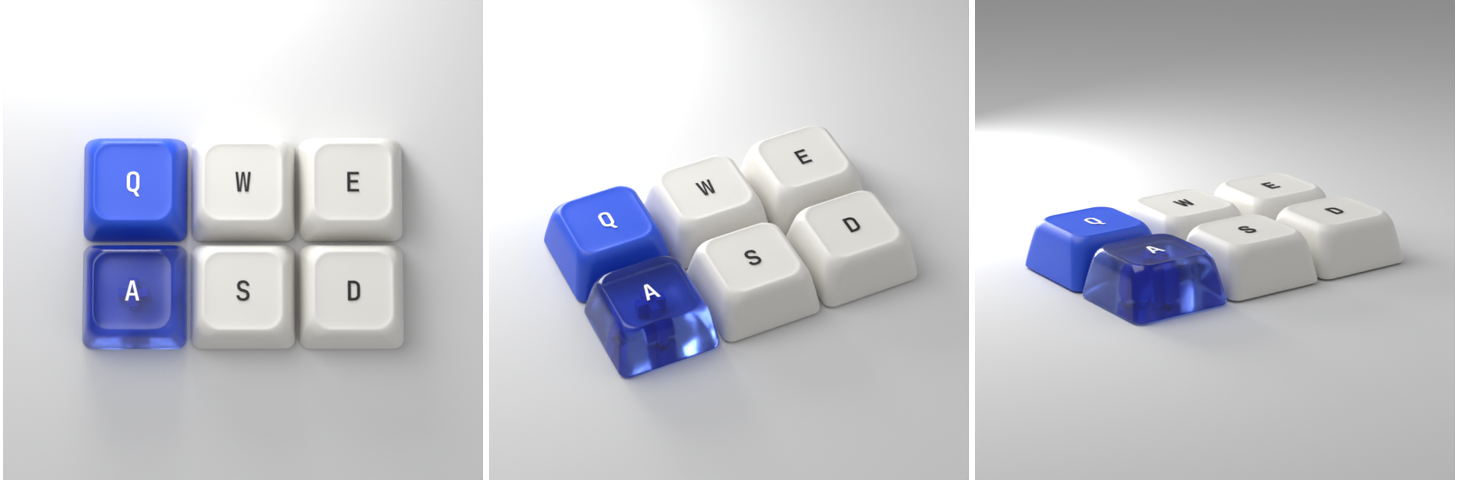
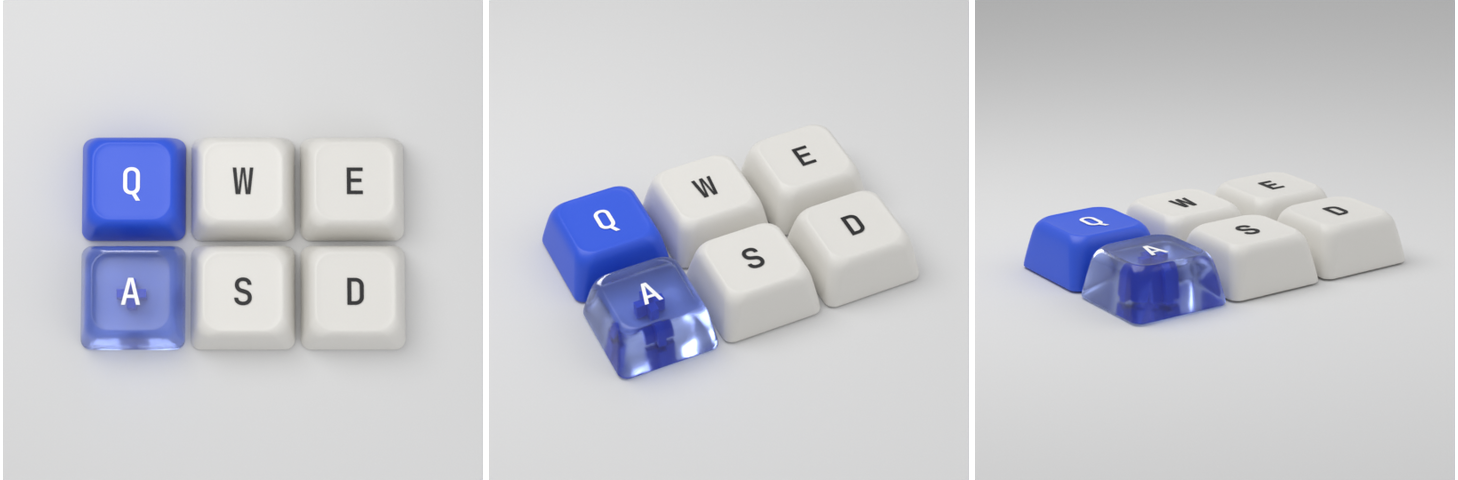
Teclas: fondo gris parejo, letras más grandes, transparente más clara
- Fondo gris claro parejo como la referencia: cenital grande centrado
  y contraluz que sólo ilumina la tecla transparente (light linking)
- Letras más grandes
- Tecla transparente más clara y translúcida
- Granito del PBT más visible y bordes un poco más blandos
- Un poco más de aire entre teclas

Claude-Session: https://claude.ai/code/session_0121m7YK9CXNaJS4Mb2Yre8x

diff --git a/teclas/teclas.py b/teclas/teclas.py
@@ -30,13 +30,13 @@ COLOR_AZUL = "#2D5BE3"
 COLOR_BLANCO = "#E9E7E2"      # PBT blanco hueso, como la referencia
 COLOR_LETRA_OSCURA = "#1B1B1D"
 COLOR_LETRA_CLARA = "#FFFFFF"
-COLOR_FONDO = "#DADADA"
+COLOR_FONDO = "#E2E2E2"   # gris claro: con la luz se ve como el de la referencia
 
 FONT_PATH = "fuentes/JetBrainsMono-Medium.ttf"   # Google Fonts, licencia OFL
-TAMANO_LETRA = 0.34
+TAMANO_LETRA = 0.46
 
 TECLA = 1.0          # ancho de la base de la tecla
-SEPARACION = 0.035   # aire entre teclas
+SEPARACION = 0.05    # aire entre teclas
 ALTO = 0.5           # alto de la tecla
 
 RESOLUCION = (1080, 1080)
@@ -103,7 +103,7 @@ def tecla(nombre):
     perfil = [
         (0.0, m, 0.10), (0.03, m, 0.10), (0.08, m * 0.995, 0.11),
         (h * 0.70, m * 0.90, 0.14), (h * 0.86, m * 0.86, 0.15), (h * 0.95, m * 0.80, 0.16),
-        (h, m * 0.74, 0.16),                       # borde de arriba
+        (h, m * 0.74, 0.18),                       # borde de arriba
         (h * 0.985, m * 0.70, 0.15),               # escalón hacia el plato
         (h * 0.975, m * 0.62, 0.13), (h * 0.97, m * 0.3, 0.13),
     ]
@@ -177,9 +177,9 @@ def plastico(nombre, color, rugosidad=0.42):
     # grano fino del PBT
     nt = mat.node_tree
     ruido = nt.nodes.new("ShaderNodeTexNoise")
-    ruido.inputs["Scale"].default_value = 900.0
+    ruido.inputs["Scale"].default_value = 520.0
     relieve = nt.nodes.new("ShaderNodeBump")
-    relieve.inputs["Strength"].default_value = 0.08
+    relieve.inputs["Strength"].default_value = 0.16
     relieve.inputs["Distance"].default_value = 0.002
     nt.links.new(ruido.outputs["Fac"], relieve.inputs["Height"])
     nt.links.new(relieve.outputs["Normal"], bsdf.inputs["Normal"])
@@ -193,13 +193,13 @@ def plastico_transparente(nombre, color):
     mat.use_nodes = True
     nt = mat.node_tree
     bsdf = nt.nodes.get("Principled BSDF")
-    bsdf.inputs["Base Color"].default_value = hex_a_lineal("#7FA0FF")  # superficie más clara
+    bsdf.inputs["Base Color"].default_value = hex_a_lineal("#B5C8FF")  # superficie clara: se lee como plástico translúcido
     entrada(bsdf, "Transmission Weight", "Transmission").default_value = 1.0
     bsdf.inputs["Roughness"].default_value = 0.18
     bsdf.inputs["IOR"].default_value = 1.49
     absorcion = nt.nodes.new("ShaderNodeVolumeAbsorption")
     absorcion.inputs["Color"].default_value = hex_a_lineal(color)
-    absorcion.inputs["Density"].default_value = 0.35
+    absorcion.inputs["Density"].default_value = 0.18
     nt.links.new(absorcion.outputs["Volume"], nt.nodes.get("Material Output").inputs["Volume"])
     mat.diffuse_color = hex_a_lineal(color)
     return mat
@@ -239,7 +239,7 @@ def configurar_mundo():
     mundo.use_nodes = True
     fondo = mundo.node_tree.nodes.get("Background")
     fondo.inputs["Color"].default_value = (1, 1, 1, 1)
-    fondo.inputs["Strength"].default_value = 0.3
+    fondo.inputs["Strength"].default_value = 0.45
 
 
 def configurar_render():
@@ -305,12 +305,23 @@ def main():
         ob.location = pos
         ob.rotation_euler = (centro - Vector(pos)).to_track_quat("-Z", "Y").to_euler()
         ob.visible_camera = False
+        return ob
 
     # softbox grande arriba a la izquierda: sombras suaves hacia abajo a la derecha
-    luz("Softbox", 520, (-4, 3, 9), 7)
+    # dos softbox: uno grande y alto, centrado (fondo parejo) y uno arriba a la izquierda
+    # que da la dirección de las sombras, como en la referencia
+    luz("Cenital", 380, (0, 0, 14), 24)
+    luz("Softbox", 320, (-3, 2.5, 8), 6)
     luz("Relleno", 90, (5, -4, 6), 6, (0.96, 0.97, 1.0))
     # contraluz baja detrás: hace brillar la tecla transparente
-    luz("Contraluz", 260, (-1.5, 5, 2), 3)
+    contra = luz("Contraluz", 320, (-1.5, 5, 2), 3)
+    # sólo ilumina la tecla transparente (light linking): no aclara el fondo de atrás
+    solo_transp = bpy.data.collections.new("Solo tecla transparente")
+    solo_transp.objects.link(bpy.data.objects["Tecla " + TRANSPARENTE])
+    try:
+        contra.light_linking.receiver_collection = solo_transp
+    except AttributeError:
+        pass
 
     configurar_mundo()
     configurar_render()
